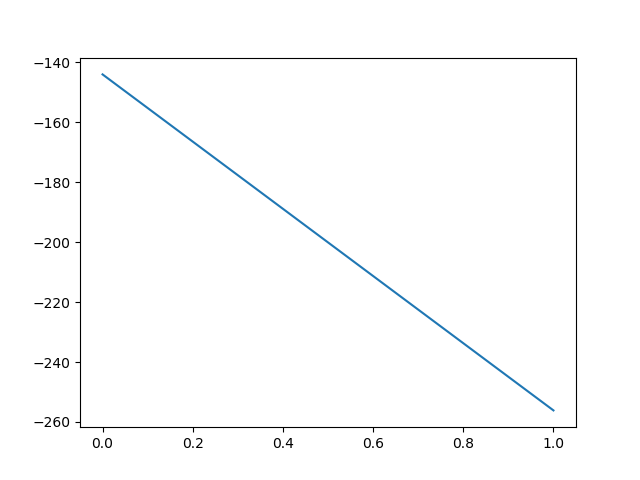
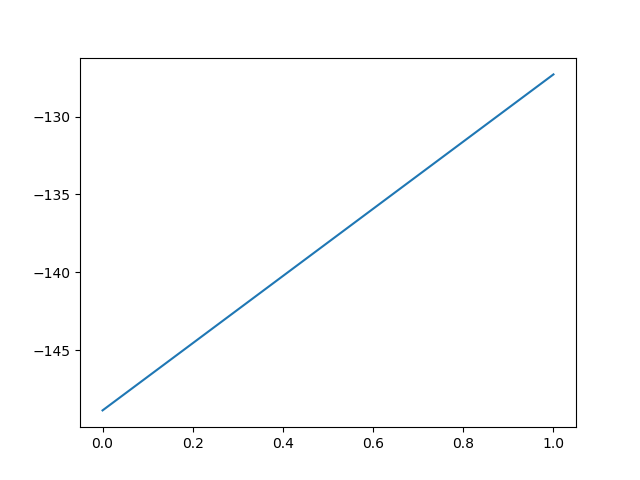
what about empty buckets for hard clustering?

diff --git a/Baumwelchcont.py b/Baumwelchcont.py
@@ -219,7 +219,7 @@ def initializeparameters(observations,numstates,numsamples):
         timelength = np.shape(observations)[1]
 
     obsmean = np.mean(observations)
-    obsvar = np.var(observations)
+    obsvar = np.var(observations)+ eps
     pie = np.random.dirichlet(np.ones(numstates),size=1)[0]
     transmtrx = eps * np.ones((numstates,numstates))
     for i in range(numstates):
@@ -292,7 +292,7 @@ def E_step(pie,transmtrx,obsmtrx,observations):
     # print np.shape(gammas)
     return (gammas,kissies,logobservations)
 
-def M_step(gammas,kissies,observations):
+def M_step(gammas,kissies,observations,hard = False):
     eps = 2.22044605e-16
     if len(np.shape(observations)) == 2:
         numstate = np.shape(gammas)[2]
@@ -304,17 +304,30 @@ def M_step(gammas,kissies,observations):
         for i in range(numstate):
             newpie[i] = np.mean((gammas[:,0,i]))
         for q in range(numstate):
-            denominator = np.sum(gammas[:,:timelength-1,q])
+            denominator = np.sum(gammas[:,:timelength-1,q]) + eps
             for s in range(numstate):
                 newtransmtrx[q,s] = float(np.sum(kissies[:,:timelength-1,q,s]) )/ float(denominator)
-        for state in range(numstate):
-            numerator = []
+        if hard == False:
+            for state in range(numstate):
+                numerator = []
+                for time in range(timelength):
+                    for sample in range(numsamples):
+                        numerator.append(gammas[sample,time,state] * observations[sample,time])
+                        #mean ?? variance ??? 
+                newobsmtrx[state,0] = np.mean(numerator)
+                newobsmtrx[state,1] = np.var(numerator)+ eps
+        else:
+            assignments = []
+            for i in range(numstate):
+                assignments.append([])
             for time in range(timelength):
                 for sample in range(numsamples):
-                    numerator.append(gammas[sample,time,state] * observations[sample,time])
-                    #mean ?? variance ??? 
-            newobsmtrx[state,0] = np.mean(numerator)
-            newobsmtrx[state,1] = np.var(numerator)
+                    most_likely_state = np.argmax(gammas[sample,time,:])
+                    assignments[most_likely_state].append(observations[sample,time])
+            for state in range(numstate):
+                if len(assignments[state]) >= 1:
+                    newobsmtrx[state,0] = np.mean(assignments[state])
+                    newobsmtrx[state,1] = np.var(assignments[state]) + eps
 
     else:
         # single observation
@@ -326,20 +339,31 @@ def M_step(gammas,kissies,observations):
         for i in range(numstate):
             newpie[i] = float((gammas[0,i]))
         for q in range(numstate):
-            denominator = np.sum(gammas[:timelength-1,q])
+            denominator = np.sum(gammas[:timelength-1,q]) + eps
             for s in range(numstate):
                 newtransmtrx[q,s] = float(np.sum(kissies[:timelength-1,q,s]) )/ float(denominator)
-        for state in range(numstate):
-            numerator = []
+        if hard == False:
+            for state in range(numstate):
+                numerator = []
+                for time in range(timelength):
+                    numerator.append(gammas[time,state] * observations[time])
+                newobsmtrx[state,0] = np.mean(numerator)
+                newobsmtrx[state,1] = np.var(numerator)+ eps
+        else:
+            assignments = []
+            for i in range(numstate):
+                assignments.append([])
             for time in range(timelength):
-                numerator.append(gammas[time,state] * observations[time])
-            newobsmtrx[state,0] = np.mean(numerator)
-            newobsmtrx[state,1] = np.var(numerator)
-
+                most_likely_state = np.argmax(gammas[time,:])
+                assignments[most_likely_state].append(observations[time])
+            for state in range(numstate):
+                if len(assignments[state]) >= 1:
+                    newobsmtrx[state,0] = np.mean(assignments[state])
+                    newobsmtrx[state,1] = np.var(assignments[state])+ eps
     # (newpie,newtransmtrx,newobsmtrx,gammas,kissies) = clipvalues_prevunderflow(newpie,newtransmtrx,newobsmtrx,gammas,kissies)
     return (newpie,newtransmtrx,newobsmtrx)
 
-def Baumwelchcont(observations,numstates,exmodel):
+def Baumwelchcont(observations,numstates,exmodel,hard = False):
     eps = 2.22044605e-16
     ''' Uses an EM moedel and maximul likelihood estimation to learn the parameteres of an HMM model given the observations 
     In order to compute log likelihood, probabilitey of seeing the observations given the model at that iteration is used. 
@@ -374,7 +398,7 @@ def Baumwelchcont(observations,numstates,exmodel):
         prevlogobservation = [2.0] * numsamples
     while(diffprobproduct > eps):
         (gammas,kissies,logobservations) = E_step(pie,transmtrx,obsmtrx,observations)
-        (pie,transmtrx,obsmtrx) = M_step(gammas,kissies,observations)
+        (pie,transmtrx,obsmtrx) = M_step(gammas,kissies,observations,hard)
         likelihoods.append(np.log(logobservations))
         counter +=1
         diffprobproduct = abs(np.max(prevlogobservation - logobservations))
@@ -390,7 +414,9 @@ def main():
     exmodel = hmmgaussian(3,2,50,1)
     numstates = exmodel.numofstates
     observations = exmodel.observations
-    (pie,transmtrx,obsmtrx) = Baumwelchcont(observations,numstates,exmodel)
+    hard = True
+    # hard = False
+    (pie,transmtrx,obsmtrx) = Baumwelchcont(observations,numstates,exmodel,hard)
     # (pie,transmtrx,obsmtrx) = clipvalues_prevunderflow_small(pie,transmtrx,obsmtrx)
     piedist = np.linalg.norm(pie - exmodel.pie ) / float(numstates)
     transdist = np.linalg.norm(transmtrx - exmodel.transitionmtrx) / float(numstates **2)

diff --git a/backward.py b/backward.py
@@ -14,10 +14,11 @@ def backward(transmtrx,obsmtrx,pie,observations):
     ''' Input : Transition matrix, pie, state_observation probs, observations
     Output: betas,  Probablities of observing the rest of the observations from that point on, given that we are at a given state at a give timepoint for each sample'''
     # initialization
+    eps = 2.22044605e-16
     if len(np.shape(observations)) == 1:
         numstates = np.shape(transmtrx)[0]
         timelength = np.shape(observations)[0]
-        betas = np.empty((timelength,numstates))
+        betas = eps * np.ones((timelength,numstates))
         betas[timelength-1,:] = np.ones((1,numstates))
         # (betas[timelength-1,:],dummy) = normalize(betas[timelength-1,:])
         # print betas[timelength-1,:]
@@ -30,7 +31,7 @@ def backward(transmtrx,obsmtrx,pie,observations):
         numstates = np.shape(transmtrx)[0]
         numsamples = np.shape(observations)[0]
         timelength = np.shape(observations)[1]
-        betas = np.empty((numsamples,timelength,numstates))
+        betas = eps * np.ones((numsamples,timelength,numstates))
         for sample in range(numsamples):
             betas[sample,timelength-1,:] = np.ones((1,numstates))
             # (betas[timelength-1,:],dummy) = normalize(betas[timelength-1,:])

diff --git a/backwardcont.py b/backwardcont.py
@@ -19,7 +19,7 @@ def backwardcont(transmtrx,obsmtrx,pie,observations):
     if len(np.shape(observations)) == 1:
         numstates = np.shape(transmtrx)[0]
         timelength = np.shape(observations)[0]
-        betas = np.ones((timelength,numstates))
+        betas = eps * np.ones((timelength,numstates))
         betas[timelength-1,:] = np.ones((1,numstates))
         # print betas[timelength-1,:]
         for t in range(timelength-1,0,-1):
@@ -33,7 +33,7 @@ def backwardcont(transmtrx,obsmtrx,pie,observations):
         numstates = np.shape(transmtrx)[0]
         numsamples = np.shape(observations)[0]
         timelength = np.shape(observations)[1]
-        betas = np.ones((numsamples,timelength,numstates))
+        betas = eps * np.ones((numsamples,timelength,numstates))
         for sample in range(numsamples):
             betas[sample,timelength-1,:] = np.ones((1,numstates))
             # print betas[timelength-1,:]
